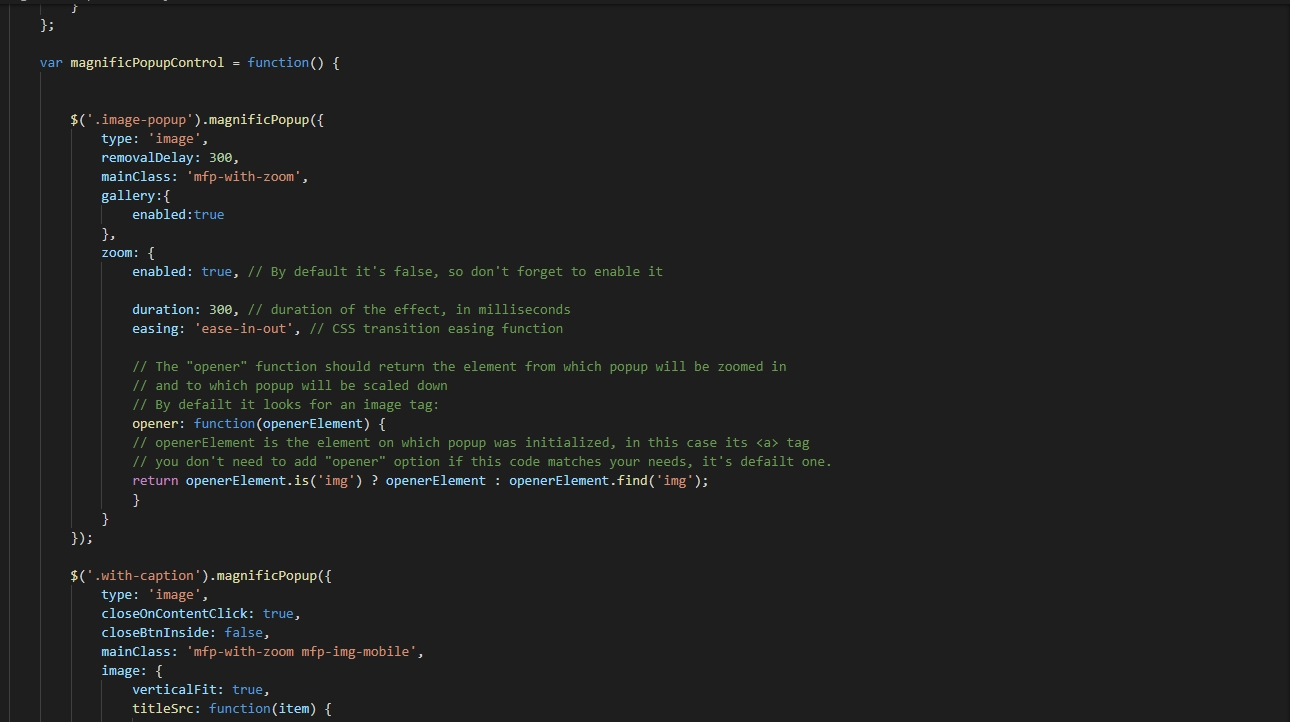
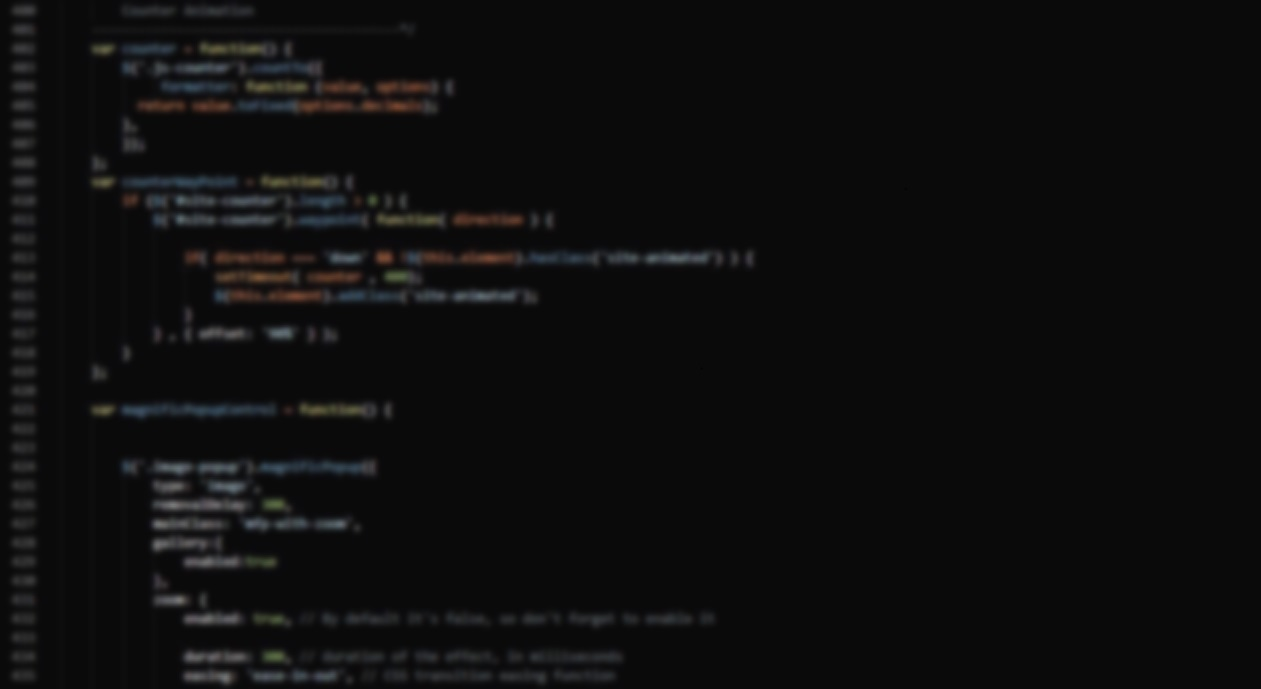
Updated background images

Changed region(s): [[0.0, 0.0, 0.6495, 1.0], [0.0309, 0.701, 0.0928, 0.762], [0.0, 0.2134, 0.0309, 0.2743]]

diff --git a/index.html b/index.html
@@ -59,31 +59,7 @@
 
     <section class="site-slider flexslider">
         <ul class="slides">
-            <li style="background-image: url(img/code_1_blur.jpg);">
-                <div class="container">
-                    <div class="row">
-                        <div class="col-md-12 text-center">
-                            <div class="slides-text site-animate">
-                                <h2>Less is more.</h2>
-                                <p><a href="https://uicookies.com/" target="_blank" class="btn btn-primary">Get Started</a></p>
-                            </div>
-                        </div>
-                    </div>
-                </div>
-            </li>
-            <li style="background-image: url(img/code_2_blur6.jpg);">
-                <div class="container">
-                    <div class="row">
-                        <div class="col-md-12 text-center">
-                            <div class="slides-text site-animate">
-                                <h2>Black is elegant.</h2>
-                                <p><a href="https://uicookies.com/" target="_blank" class="btn btn-primary">Get Started</a></p>
-                            </div>
-                        </div>
-                    </div>
-                </div>
-            </li>
-            <li style="background-image: url(img/code_3_blur_7.jpg);">
+            <li style="background-image: url(img/code_1.jpg);">
                 <div class="container">
                     <div class="row">
                         <div class="col-md-12 text-center">

diff --git a/projects.html b/projects.html
@@ -6,7 +6,7 @@
     <meta name="viewport" content="width=device-width, initial-scale=1">
     <title>Devin Driggs - Projects</title>
     <meta name="description" content="The Online Portfolio of Devin Driggs">
-    <meta name="keywords" content="Devin Driggs, Backend Developer, Programmer, Powershell, Python, C++">
+    <meta name="keywords" content="Devin Driggs, Backend Developer, Programmer, Software Engineer, Powershell, Python, C++">
 
     <link href="https://fonts.googleapis.com/css?family=Open+Sans:300,400" rel="stylesheet">
     <link rel="stylesheet" href="css/styles-merged.css">
@@ -57,7 +57,7 @@
 
     <section class="site-slider flexslider">
         <ul class="slides">
-            <li style="background-image: url(img/code_1_blur.jpg);">
+            <li style="background-image: url(img/code_1.jpg);">
                 <div class="container">
                     <div class="row">
                         <div class="col-md-12 text-center">

diff --git a/services.html b/services.html
@@ -60,7 +60,7 @@
     <!-- END: header -->
     <section class="site-slider flexslider">
         <ul class="slides">
-            <li style="background-image: url(img/slider_1.jpg);">
+            <li style="background-image: url(img/code_1.jpg);">
                 <div class="container">
                     <div class="row">
                         <div class="col-md-12 text-center">

diff --git a/contact.html b/contact.html
@@ -57,7 +57,7 @@
 
     <section class="site-slider flexslider">
         <ul class="slides">
-            <li style="background-image: url(img/code_3_blur_7.jpg);">
+            <li style="background-image: url(img/code_1.jpg);">
                 <div class="container">
                     <div class="row">
                         <div class="col-md-12 text-center">

diff --git a/about.html b/about.html
@@ -58,7 +58,7 @@
 
     <section class="site-slider flexslider">
         <ul class="slides">
-            <li style="background-image: url(img/code_2_blur6.jpg);">
+            <li style="background-image: url(img/code_1.jpg);">
                 <div class="container">
                     <div class="row">
                         <div class="col-md-12 text-center">
